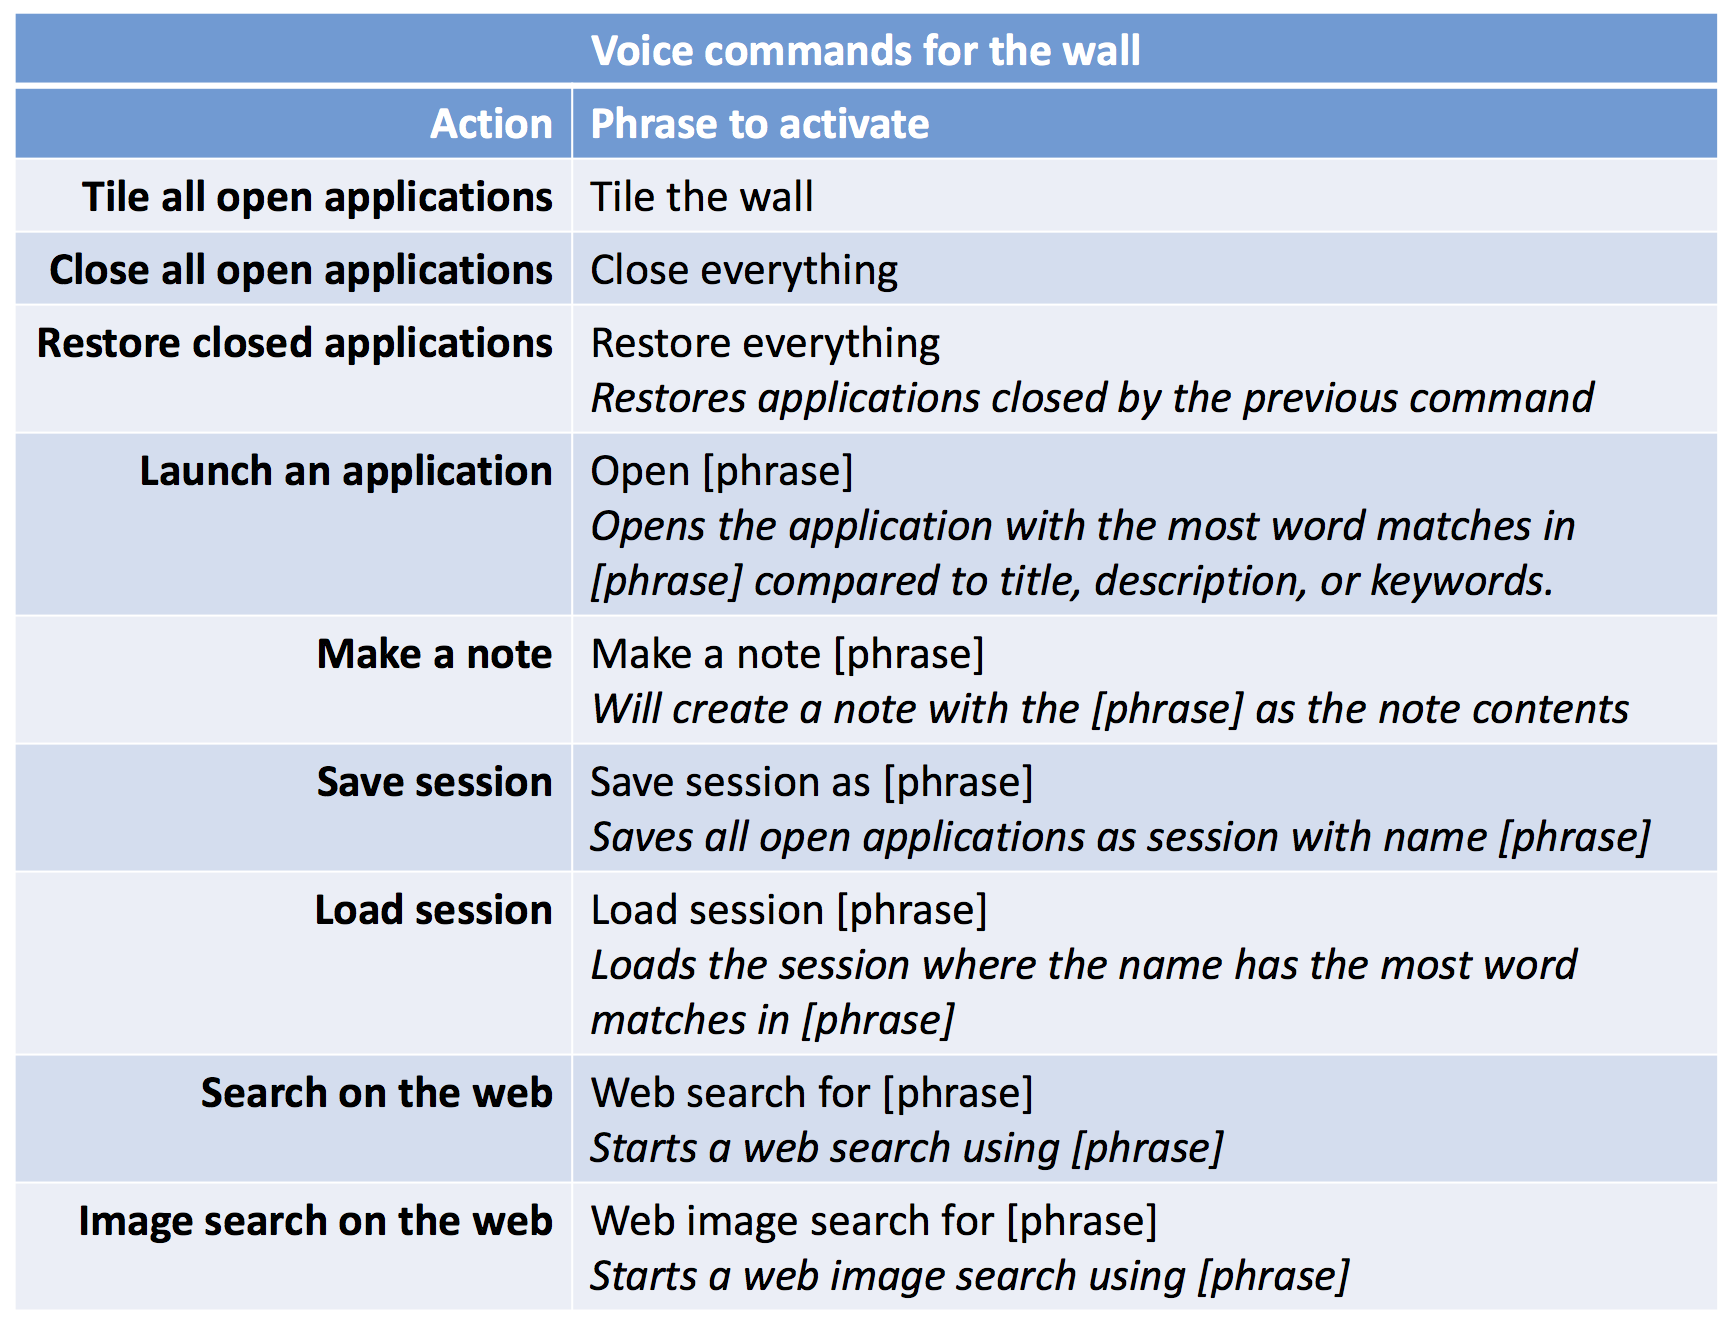
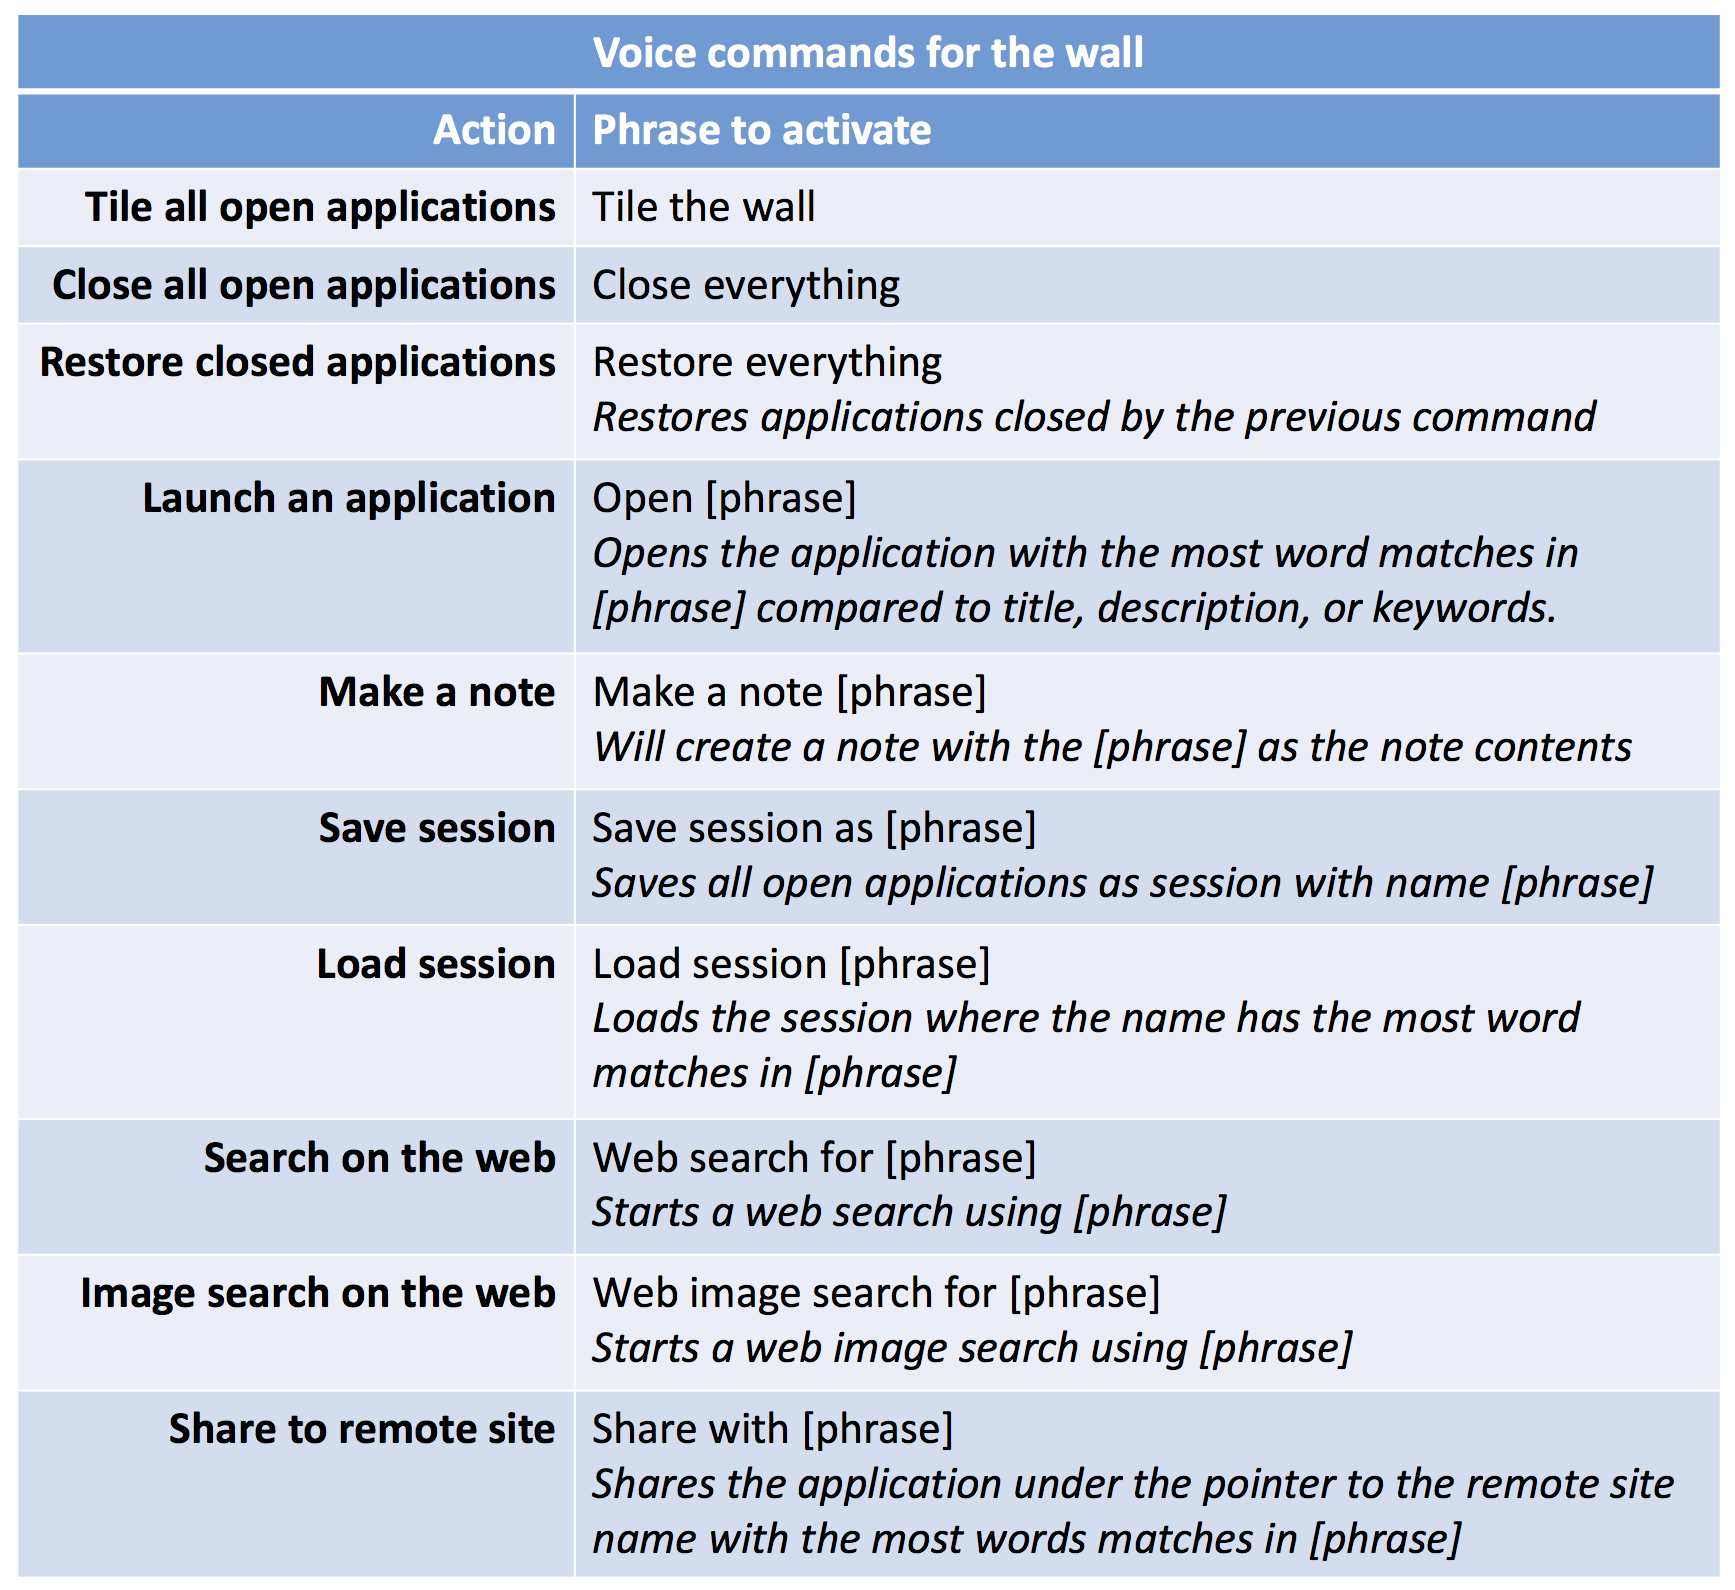
new: sharing to remote site added to voice commands

Changed region(s): [[0.0, 0.0, 0.9983, 1.0]]

diff --git a/src/node-voiceToAction.js b/src/node-voiceToAction.js
@@ -35,6 +35,7 @@ function VoiceActionManager(obj) {
 		+ (today.getMonth() + 1) + "-" + today.getDate() + "-transcript.json";
 	this.confirmPhrases = null;
 	this.rejectPhrases = null;
+	this.appIdUnderPointer = null;
 	this.fillPhrases();
 }
 
@@ -187,6 +188,7 @@ VoiceActionManager.prototype.secondaryProcessCallToUseInTryCatch = function(wsio
 	// Get app under pointer, then get context menu
 	var obj = this.s2.interactMgr.searchGeometry({x: pointerX, y: pointerY});
 	var contextMenu = null, app = false;
+	this.appIdUnderPointer = null;
 	if (obj !== null) {
 		// Check type of item under click
 		if (this.s2.SAGE2Items.applications.list.hasOwnProperty(obj.data.id)) {
@@ -194,6 +196,7 @@ VoiceActionManager.prototype.secondaryProcessCallToUseInTryCatch = function(wsio
 			if (this.s2.SAGE2Items.applications.list[obj.data.id].contextMenu) {
 				contextMenu = this.s2.SAGE2Items.applications.list[obj.data.id].contextMenu;
 				app = obj.data.id;
+				this.appIdUnderPointer = app;
 			}
 		}
 	}
@@ -442,10 +445,10 @@ VoiceActionManager.prototype.voicePreCheckForWallCommands = function (wsio, word
 		shareToRemoteSite: {
 			successFunction: this.voiceHandlerForShareToRemoteSite,
 			phraseRequirements: [
-				// "share with",
-				// "send to"
+				"share with",
+				"send to"
 			],
-			successPhrase: "Sending "
+			successPhrase: "Sending to "
 		}
 	};
 
@@ -1085,7 +1088,40 @@ VoiceActionManager.prototype.voiceHandlerForWebSearch = function(wsio, words) {
  * @param {Array} words - transcript as array of words
  */
 VoiceActionManager.prototype.voiceHandlerForShareToRemoteSite = function(wsio, words) {
-	// to be filled out after SC17
+	// Need an app under pointer to share
+	if (this.appIdUnderPointer) {
+		// Get context menu
+		var contextMenu = this.s2.SAGE2Items.applications.list[this.appIdUnderPointer].contextMenu;
+		// If there is no context menu, can't do anything. This means it wasn't loaded on display.
+		if (!contextMenu) {
+			return false;
+		}
+		// Update the share entries
+		this.s2.fillContextMenuWithShareSites(contextMenu, this.appIdUnderPointer);
+		var shareDescription = "Share With:";
+		var availableRemoteSites;
+		// first search for the share entry
+		for (let i = 0; i < contextMenu.length; i++) {
+			if (contextMenu[i].description === shareDescription) {
+				availableRemoteSites = contextMenu[i].children;
+			}
+		}
+		// If there is no availableRemoteSites, can't do anything.
+		if (!availableRemoteSites) {
+			return false;
+		}
+		var match = this.checkForContextMenuMatch(availableRemoteSites, words);
+		if (match.foundMatch) {
+			match = availableRemoteSites[match.indexOfMostMatches];
+			// Params are: uniqueId, app object, remoteSites[data.parameters.remoteSiteIndex]
+			this.s2.shareApplicationWithRemoteSite(
+				wsio.id,
+				{application: this.s2.SAGE2Items.applications.list[this.appIdUnderPointer]},
+				this.s2.remoteSites[match.parameters.remoteSiteIndex]);
+			return match.parameters.siteName;
+		}
+	}
+	return false;
 };
 
 

diff --git a/server.js b/server.js
@@ -716,6 +716,9 @@ var variablesUsedInVoiceHandler = {
 	tileApplications,
 	clearDisplay,
 	broadcast,
+	shareApplicationWithRemoteSite,
+	fillContextMenuWithShareSites,
+	remoteSites,
 	voiceNameMarker: "sage " // that space is important for checking // change this later to check config
 };
 var voiceHandler = new VoiceActionManager(variablesUsedInVoiceHandler);
@@ -8062,8 +8065,9 @@ function pointerReleaseOnStaticUI(uniqueID, pointerX, pointerY, obj) {
  * Shares an application with a remote site
  *
  * @method shareApplicationWithRemoteSite
- * @param  {Object} wsio - The websocket of sender.
- * @param  {Object} data - The object needed to get menu, properties described below.
+ * @param  {String} uniqueID - The wsio.id.
+ * @param  {Object} app - The app object to share. Usually: {application: SAGE2Items.applications.list[data.app]}
+ * @param  {Object} remote - Remote site. Usually: remoteSites[data.parameters.remoteSiteIndex]
  */
 function shareApplicationWithRemoteSite(uniqueID, app, remote) {
 	var sharedId = app.application.id + "_" + config.host + ":" + config.secure_port + "+" + remote.wsio.id;
@@ -9732,14 +9736,14 @@ function showOrHideWidgetLinks(data) {
  * @param  {Integer} data.yClick - Where client clicked on their screen, because this is async.
  */
 function wsRequestAppContextMenu(wsio, data) {
-	// first find if there is an app at location, top most element.
+	// First find if there is an app at location, top most element.
 	var obj = interactMgr.searchGeometry({x: data.x, y: data.y});
 	if (obj !== null) {
-		// check if it was an application
+		// Check if it was an application
 		if (SAGE2Items.applications.list.hasOwnProperty(obj.data.id)) {
-			// if an app was under the right-click
+			// If an app was under the right-click
 			if (SAGE2Items.applications.list[obj.data.id].contextMenu) {
-				// before passing back the menu, fill in the share options.
+				// Before passing back the menu, fill in the share options.
 				let contextMenu = SAGE2Items.applications.list[obj.data.id].contextMenu;
 				fillContextMenuWithShareSites(contextMenu, obj.data.id);
 				// If we already have the menu info, send it
@@ -9777,6 +9781,7 @@ function wsRequestAppContextMenu(wsio, data) {
  *
  * @method fillContextMenuWithShareSites
  * @param  {Object} contextMenu - The context menu of the application.
+ * @param  {String} appId - Unique string to get app, SAGE2Items.applications.list[appId].
  */
 function fillContextMenuWithShareSites(contextMenu, appId) {
 	let shareIndex = -1;

diff --git a/public/uploads/apps/notepad/notepad.js b/public/uploads/apps/notepad/notepad.js
@@ -59,7 +59,7 @@ var	NotepadBlinker = function(id, ctx, date, color) {
 };
 
 
-var notepadf = SAGE2_App.extend({
+var notepad = SAGE2_App.extend({
 	init: function(data) {
 		this.SAGE2Init("canvas", data);
 
@@ -166,7 +166,7 @@ var notepadf = SAGE2_App.extend({
 		for (var parts = 0; parts < this.range.length; parts++) {
 			var start = this.range[parts][0];
 			var end = this.range[parts][1];
-			console.log(start + " : " + end);
+			// console.log(start + " : " + end);
 			for (var i = start; i <= end; i++) {
 
 				this.ctx.font = "16px " + this.font;
@@ -225,13 +225,13 @@ var notepadf = SAGE2_App.extend({
 
 	enterKey: function(curL, curC, userId) {
 		if (curL + this.range[0][0] - 1 in this.state.content) {
-			console.log("curL::::" + curL);
+			// console.log("curL::::" + curL);
 			var nl = this.state.content[curL + this.range[0][0] - 1].substring(curC,
 				this.state.content[curL + this.range[0][0] - 1].length);
 			this.state.content[curL + this.range[0][0] - 1] =
 				this.state.content[curL + this.range[0][0] - 1].substring(0, curC);
 			if (curL + this.range[0][0] in this.state.content) {
-				console.log("");
+				// console.log("");
 				this.state.content.splice(curL + 1, 0, nl);
 			} else {
 				this.state.content[curL + 1] = nl;
@@ -277,7 +277,7 @@ var notepadf = SAGE2_App.extend({
 				var lno = Math.ceil(y / this.fontHeight);
 				var tArIdx = lno + this.range[0][0] - 1;
 				if (tArIdx in this.state.content && this.state.content[tArIdx] != null) {
-					console.log(tArIdx);
+					// console.log(tArIdx);
 					var len = this.ctx.measureText(this.state.content[tArIdx]).width;
 					if (x >= len) {
 						this.blinkerArr[userId.id].moveLC(lno, this.state.content[tArIdx].length);
@@ -351,7 +351,7 @@ var notepadf = SAGE2_App.extend({
 						t = "";
 						if (curL + this.range[0][0] - 2 in this.state.content) {
 							t =  this.state.content[curL + this.range[0][0] - 2];
-							console.log("T : ");
+							// console.log("T : ");
 						}
 						this.state.content[curL + this.range[0][0] - 2] = t + post;
 						this.state.content.splice(curL + this.range[0][0] - 1, 1);

diff --git a/public/src/SAGE2_UI.js b/public/src/SAGE2_UI.js
@@ -3131,7 +3131,7 @@ function addMenuEntry(menuDiv, entry, id, app) {
 							data.app = this.app;
 							data.func = this.callback;
 							data.parameters = this.parameters;
-							data.parameters.clientName = document.getElementById('sage2PointerLabel').value;
+							data.parameters.clientName = interactor.pointerLabel;
 							data.parameters.clientId = interactor.uniqueID;
 							wsio.emit('callFunctionOnApp', data);
 						}
